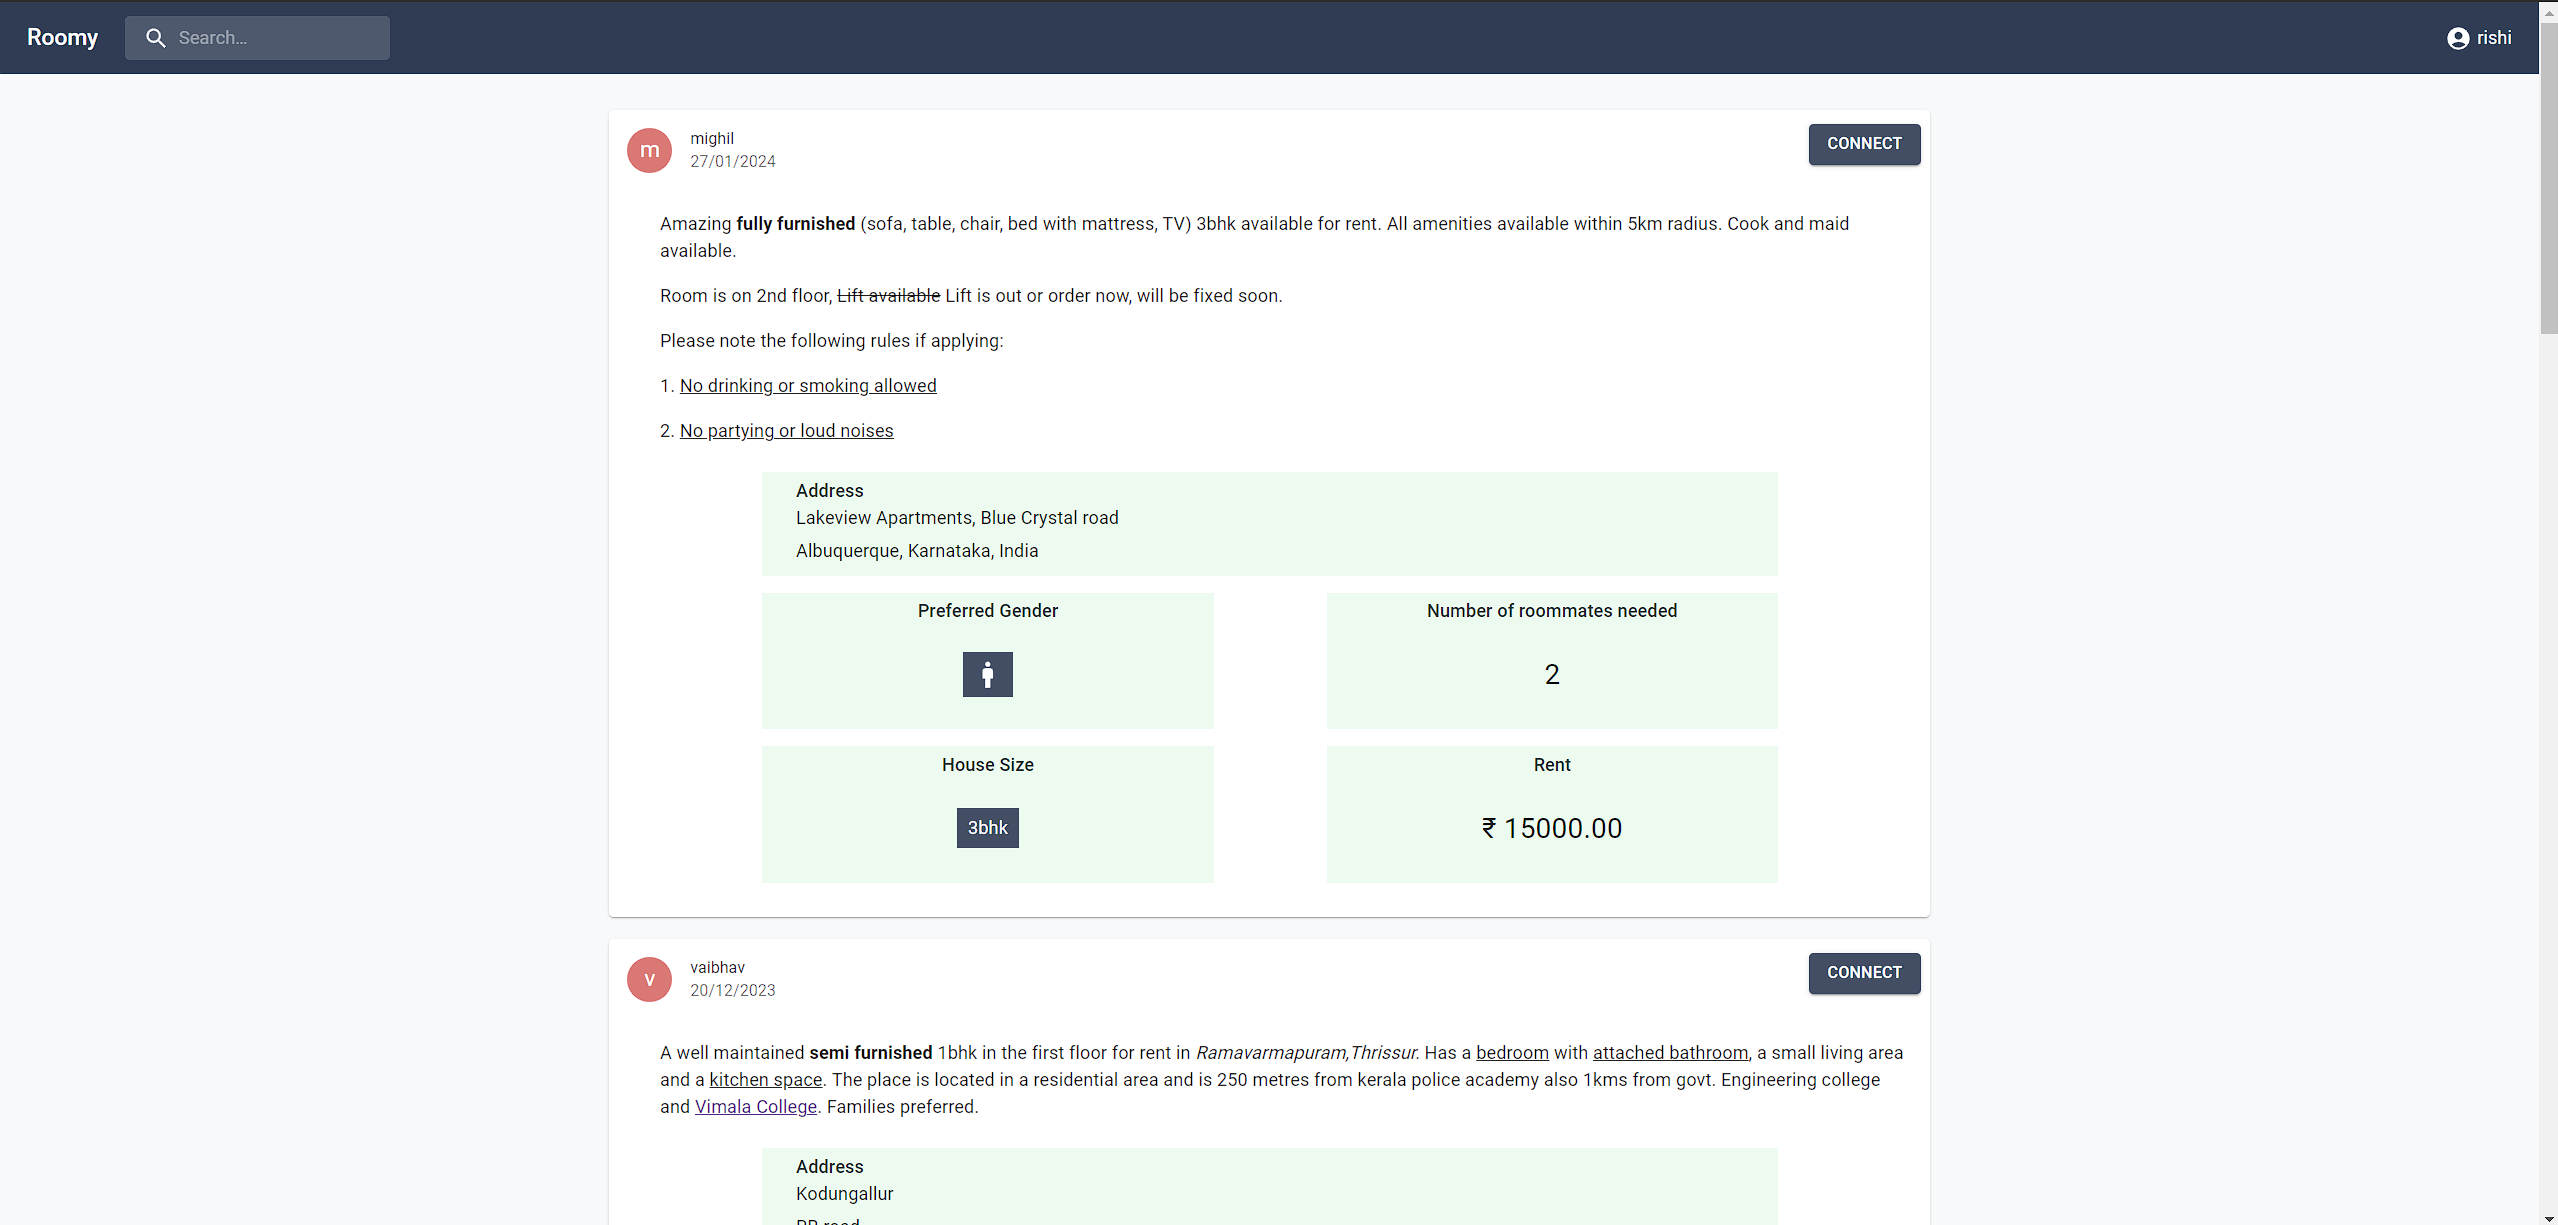
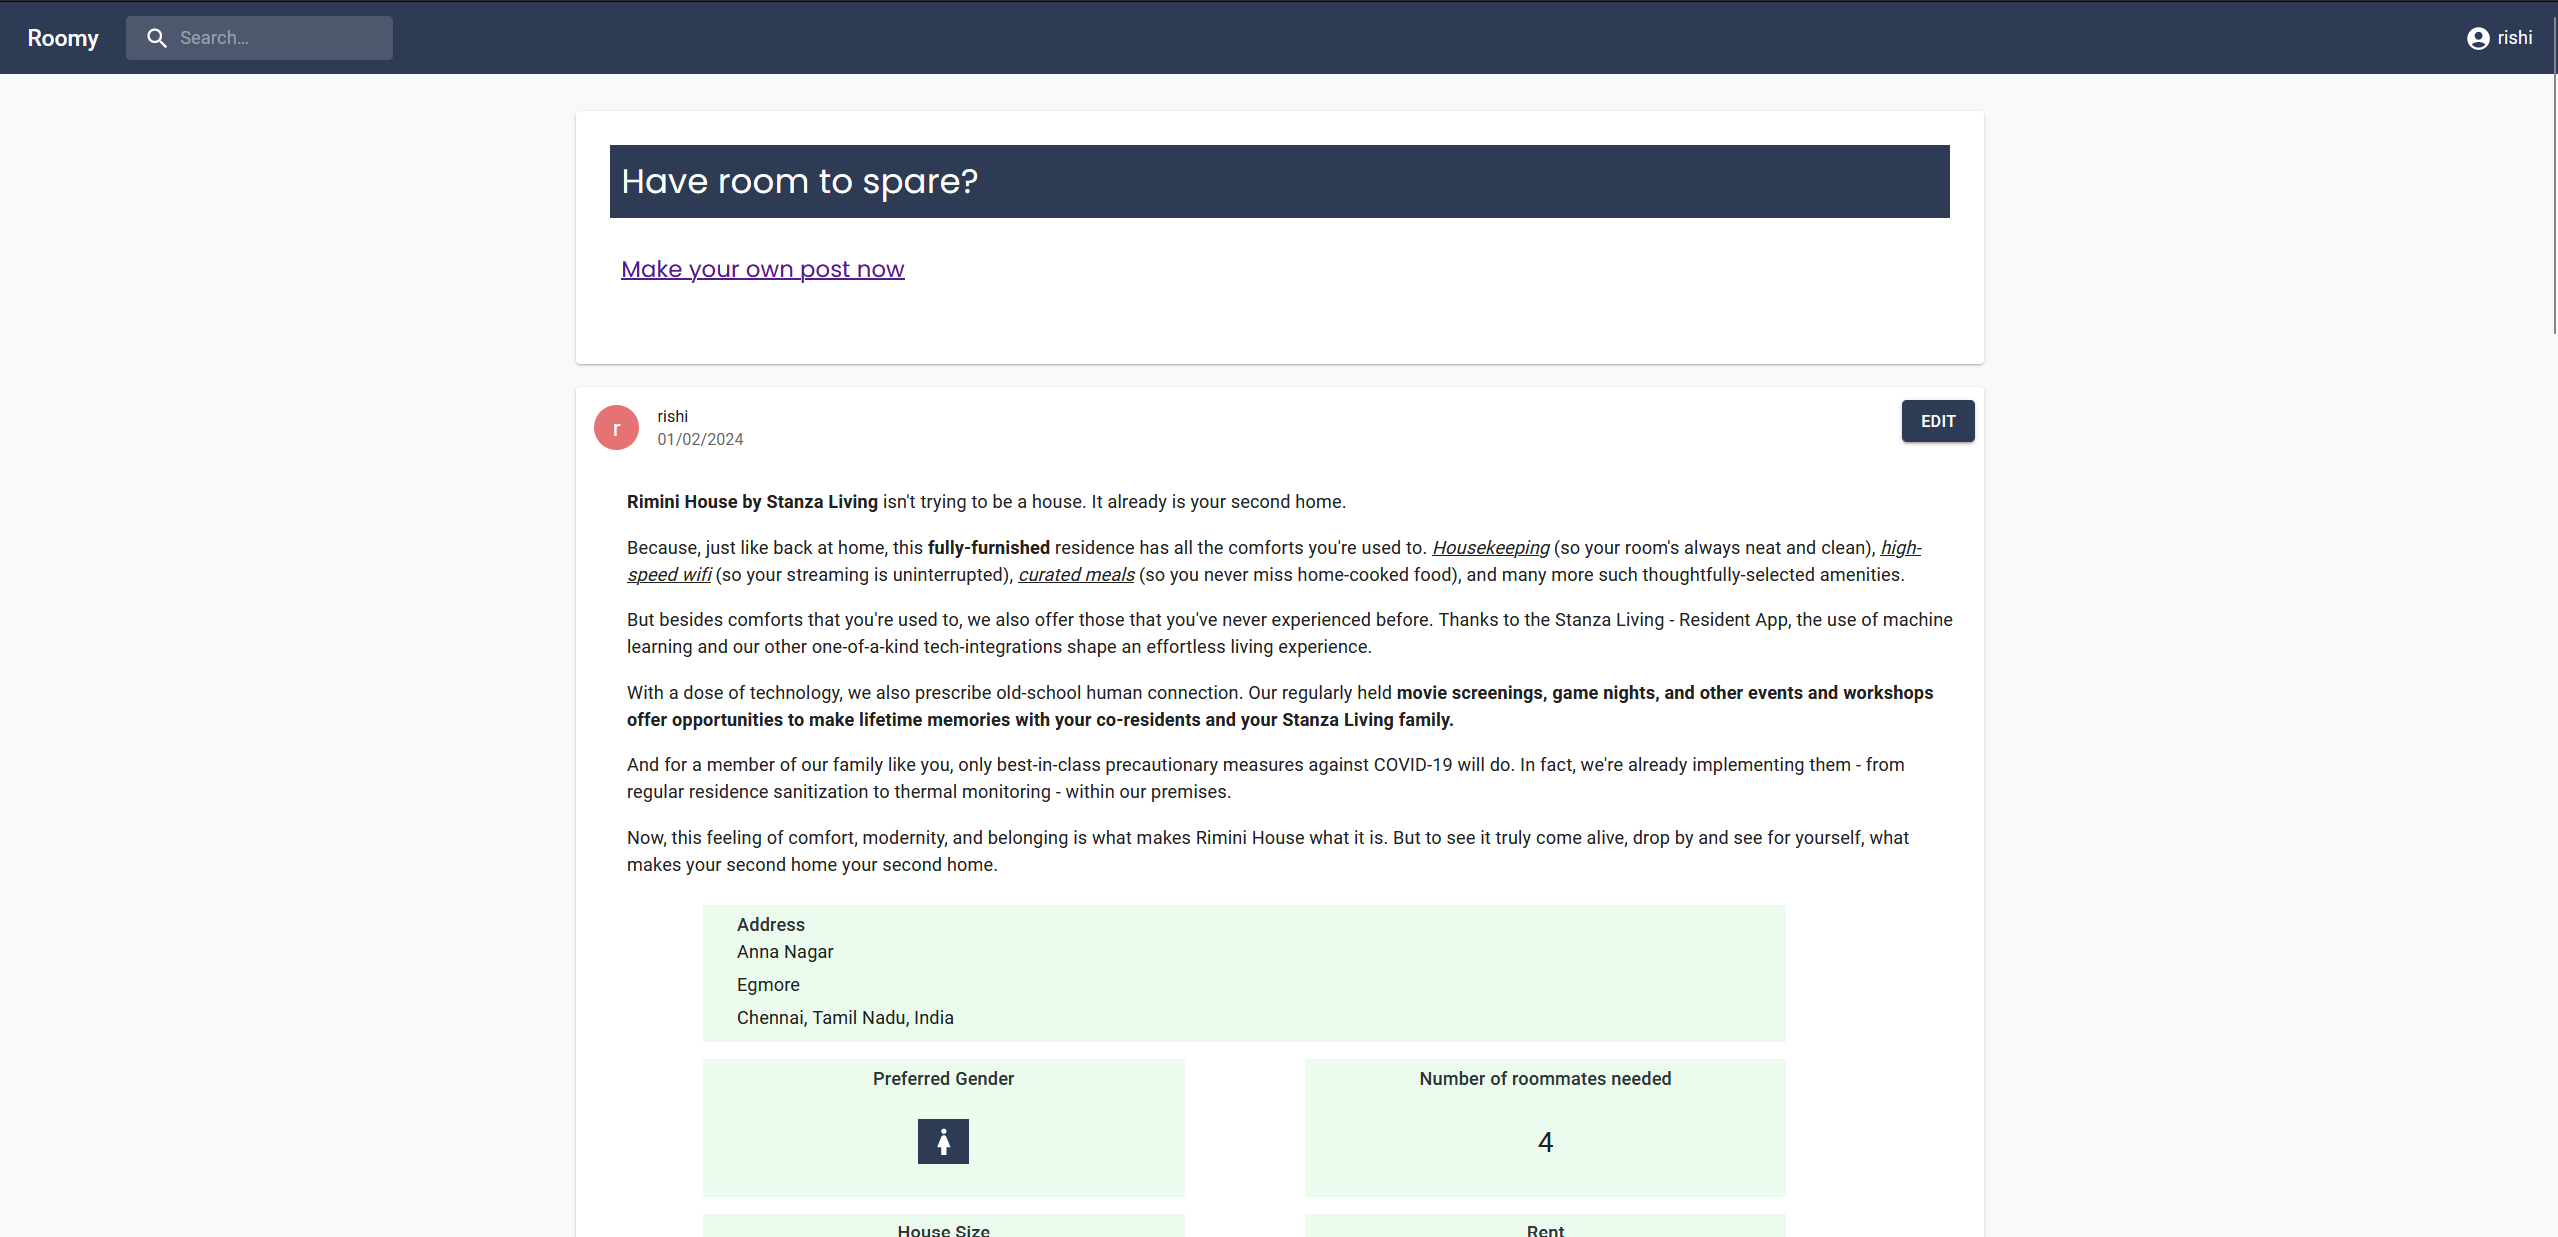
add navbar and feed changes

diff --git a/src/components/Feed/PostItem.tsx b/src/components/Feed/PostItem.tsx
@@ -186,53 +186,7 @@ export default function PostItem(props: FeedItem) {
           </div>
         </div>
       </div>
-      {/* <CardActions disableSpacing>
-        <IconButton aria-label="add to favorites">
-          <FavoriteIcon />
-        </IconButton>
-        <IconButton aria-label="share">
-          <ShareIcon />
-        </IconButton>
-        <ExpandMore
-          expand={expanded}
-          onClick={handleExpandClick}
-          aria-expanded={expanded}
-          aria-label="show more"
-        >
-          <ExpandMoreIcon />
-        </ExpandMore>
-      </CardActions> */}
-      {/* <Collapse in={expanded} timeout="auto" unmountOnExit>
-        <CardContent>
-          <Typography paragraph>Method:</Typography>
-          <Typography paragraph>
-            Heat 1/2 cup of the broth in a pot until simmering, add saffron and
-            set aside for 10 minutes.
-          </Typography>
-          <Typography paragraph>
-            Heat oil in a (14- to 16-inch) paella pan or a large, deep skillet
-            over medium-high heat. Add chicken, shrimp and chorizo, and cook,
-            stirring occasionally until lightly browned, 6 to 8 minutes.
-            Transfer shrimp to a large plate and set aside, leaving chicken and
-            chorizo in the pan. Add pimentón, bay leaves, garlic, tomatoes,
-            onion, salt and pepper, and cook, stirring often until thickened and
-            fragrant, about 10 minutes. Add saffron broth and remaining 4 1/2
-            cups chicken broth; bring to a boil.
-          </Typography>
-          <Typography paragraph>
-            Add rice and stir very gently to distribute. Top with artichokes and
-            peppers, and cook without stirring, until most of the liquid is
-            absorbed, 15 to 18 minutes. Reduce heat to medium-low, add reserved
-            shrimp and mussels, tucking them down into the rice, and cook again
-            without stirring, until mussels have opened and rice is just tender,
-            5 to 7 minutes more. (Discard any mussels that don&apos;t open.)
-          </Typography>
-          <Typography>
-            Set aside off of the heat to let rest for 10 minutes, and then
-            serve.
-          </Typography>
-        </CardContent>
-      </Collapse> */}
+
     </Card>
   );
 }

diff --git a/src/components/Feed/FeedPosts.js b/src/components/Feed/FeedPosts.js
@@ -8,6 +8,10 @@ import axiosConfig from "../Utils/axiosConfig";
 import "../../css/feed.scss";
 import CustomContainer from "../Utils/CustomContainer";
 // import type { FeedItem, Post } from "../../types/Post";
+import Card from "@mui/material/Card";
+import CardHeader from "@mui/material/CardHeader";
+import CardContent from "@mui/material/CardContent";
+import { Link } from "react-router-dom";
 
 export default function FeedPosts({ postData, userData, type }) {
   return (
@@ -21,6 +25,31 @@ export default function FeedPosts({ postData, userData, type }) {
           flexDirection: "column",
         }}
       >
+        <Card
+          sx={{
+            width: "90%", // Default width for mobile view
+            mb: "20px",
+            pb: "15px",
+            "@media (min-width: 900px)": {
+              // Media query for screens wider than 600px (adjust the value as needed)
+              width: "55%", // Width for screens wider than 600px
+            },
+          }}
+        >
+          <CardContent
+            sx={{
+              // margin: "0 30px 0px 0px",
+              // border: "1px solid black",
+              padding: 0,
+              padding: " 30px 30px 0 30px",
+            }}
+          >
+            <div className="newPost__header">Have room to spare?</div>
+            <Link to="/post">
+              <div className="newPost__link">Make your own post now</div>
+            </Link>
+          </CardContent>
+        </Card>
         {postData &&
           postData.map((v) => (
             <PostItem key={v.postId} {...v} userData={userData} type={type} />

diff --git a/src/css/feed.scss b/src/css/feed.scss
@@ -1,4 +1,6 @@
-$highlight-color: #424e66;
+@import url("https://fonts.googleapis.com/css2?family=Poppins&display=swap");
+
+$highlight-color: #2e3b55;
 $item-color: #ebfbee;
 $navBar_color: #845ef7;
 .post-info {
@@ -71,6 +73,26 @@ $navBar_color: #845ef7;
 .address_body {
   width: 90%;
   padding-left: 30px;
+}
+
+.newPost__header {
+  font-family: "Poppins", sans-serif;
+  font-size: 30px;
+  margin-bottom: 20px;
+  // border: 1px solid red;
+  color: white;
+  padding: 10px;
+  background-color: $highlight-color;
+}
+
+.newPost__link {
+  font-family: "Poppins", sans-serif;
+  font-size: 20px;
+  text-decoration: underline;
+  margin-bottom: 20px;
+  cursor: pointer;
+  // border: 1px solid red;
+  padding: 10px;
 }
 
 .post-info__address_display {

diff --git a/src/components/Chat/Chat.tsx b/src/components/Chat/Chat.tsx
@@ -3,6 +3,7 @@ import Container from "@mui/material/Container";
 import { constants } from "../../constants/constants";
 import "../../css/chat.scss";
 import List from "@mui/material/List";
+import Loading from "../Utils/Loading";
 import {
   useGetConversationListQuery,
   useGetMessagesQuery,
@@ -86,7 +87,7 @@ export default function Chat() {
 
   let conversationItems;
   if (isConversationListLoading)
-    conversationItems = "Loading"
+    conversationItems = <Loading />
   else if (conversationList != null) {
     conversationItems = conversationList.map((conversedUser: ConversedUser) => {
       return <ConversationItem

diff --git a/src/components/NavBar.tsx b/src/components/NavBar.tsx
@@ -121,6 +121,7 @@ export default function Navbar() {
       onClose={handleMenuClose}
     >
       <MenuItem onClick={handleMenuClose}><Link href='/myposts' underline="none" color="black">My Posts</Link></MenuItem>
+      <MenuItem onClick={handleMenuClose}><Link href='/messaging' underline="none" color="black">Messages</Link></MenuItem>
       <MenuItem onClick={(e) => handleLogout(e)}>Logout</MenuItem>
     </Menu>
   );

diff --git a/src/constants/constants.tsx b/src/constants/constants.tsx
@@ -2,8 +2,8 @@ export const constants = {
   navBar_color: "#2e3b55",
   bg_color: "#f8f9fa",
   item_color: "#ebfbee",
-  highlight_color: "#424e66",
-  button_color: "#424e66",
+  highlight_color: "#2e3b55",
+  button_color: "#2e3b55",
   sizesList: [{ "type": "1 BHK", "value": "1bhk" },
   { "type": "2 BHK", "value": "2bhk" },
   { "type": "3 BHK", "value": "3bhk" },

diff --git a/src/css/login.scss b/src/css/login.scss
@@ -161,7 +161,6 @@
   .login-body {
     width: 100%;
     flex-direction: column;
-    border: 1px solid red;
   }
 
   .login-left-pane {
